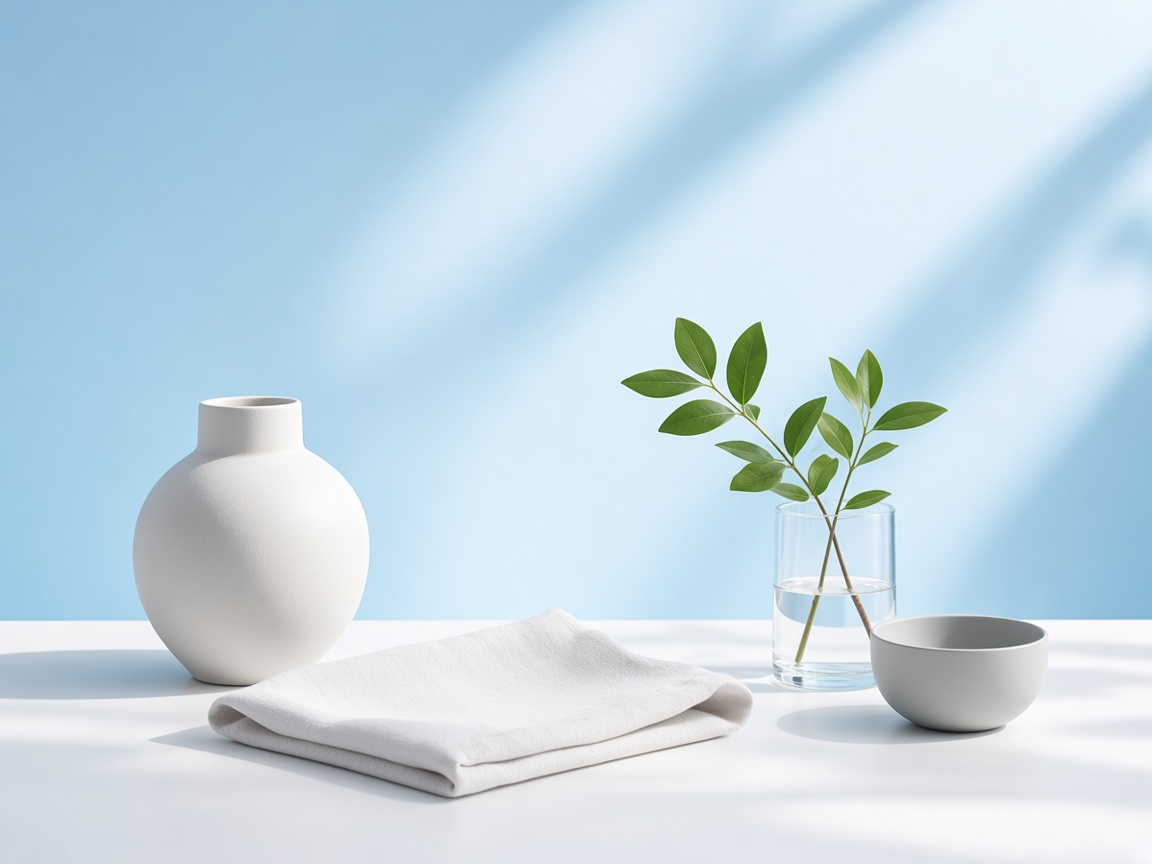
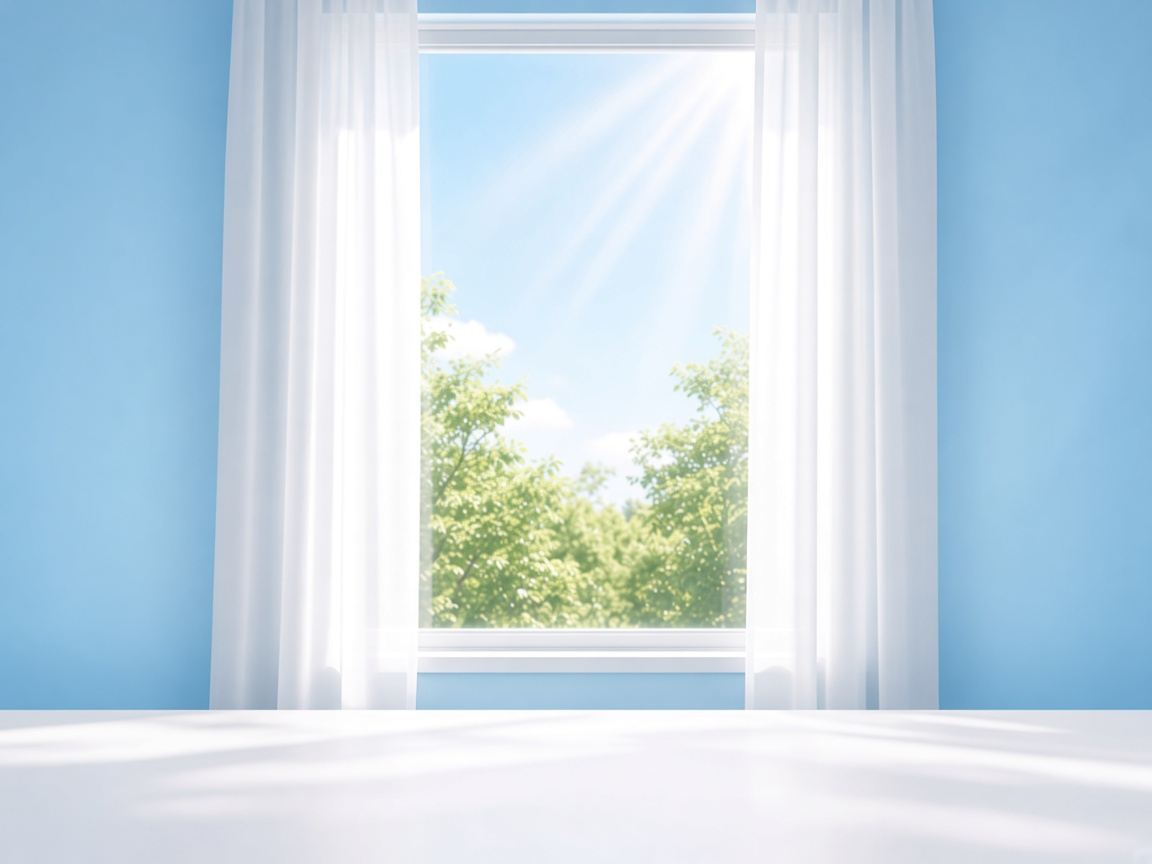
Put the window photo at the home hero path (#5)
The page had been pointed at a new file, so /hero-still.jpg was
still the tabletop. That path is now the front-facing window.

diff --git a/index.html b/index.html
@@ -40,7 +40,7 @@
         </div>
         <figure class="hero-figure">
           <img
-            src="/hero-window.jpg"
+            src="/hero-still.jpg"
             width="1152"
             height="864"
             alt="정면의 창과 흰 커튼, 바깥의 하늘과 초록, 들어오는 햇빛"
